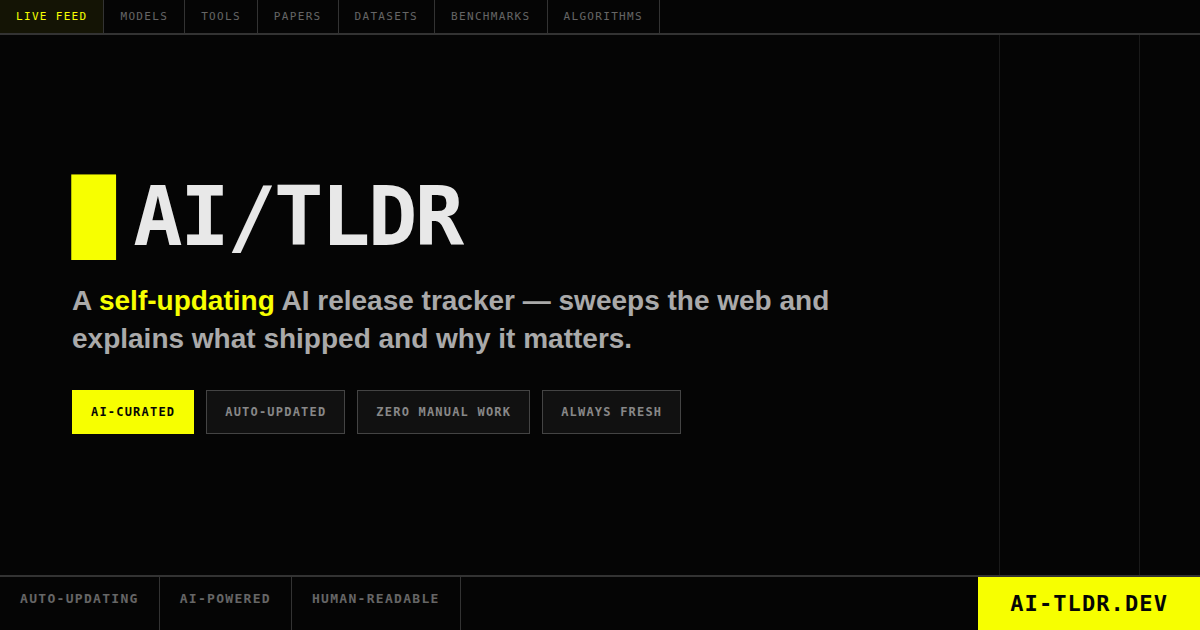
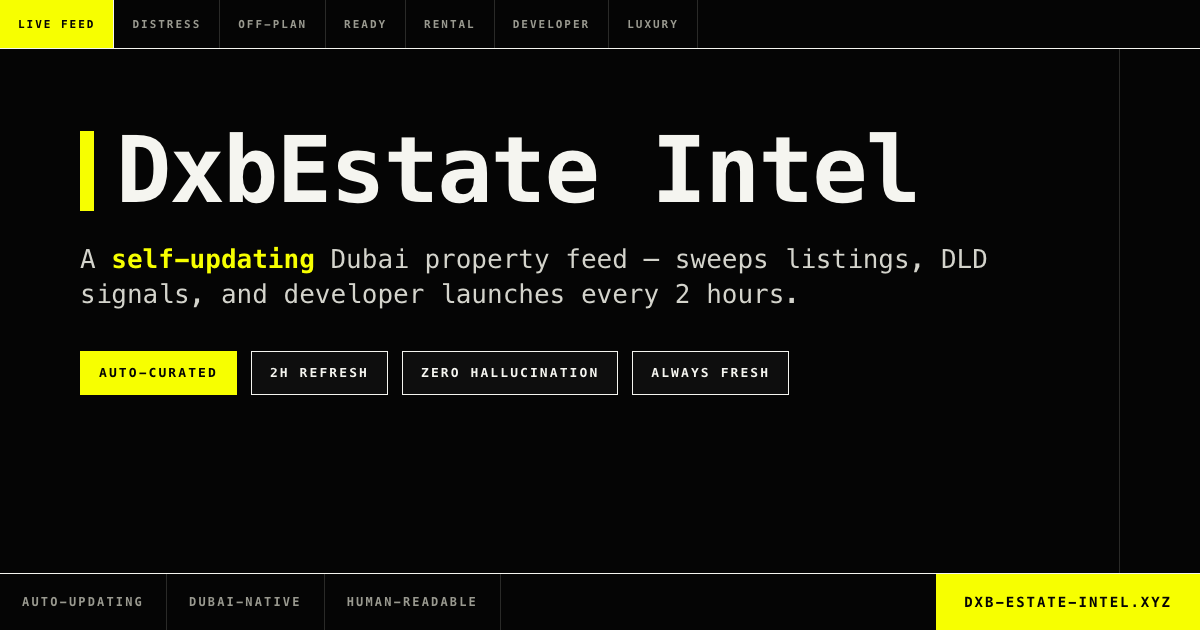
fix: rebrand og-image.png from AI/TLDR to DxbEstate Intel
The social card linked from index.html and emitted by prerender for
every opportunity was still the AI/TLDR template, so every share
preview rendered the wrong product. Regenerate it from a new HTML
template that matches the site's dark+yellow terminal aesthetic and
swap the categories/footer to Dubai property language.

The template lives at scripts/og-template.html so the asset can be
regenerated by running it through headless Chrome
(--screenshot=public/og-image.png --window-size=1200,630).

diff --git a/scripts/og-template.html b/scripts/og-template.html
@@ -1,0 +1,216 @@
+<!doctype html>
+<html lang="en">
+<head>
+<meta charset="utf-8" />
+<title>DxbEstate Intel — OG</title>
+<style>
+  @import url('https://fonts.googleapis.com/css2?family=JetBrains+Mono:wght@400;500;700;800&display=swap');
+
+  :root {
+    --bg: #050505;
+    --bg-2: #0e0e0e;
+    --fg: #f5f5f0;
+    --line: #f5f5f0;
+    --line-dim: #2a2a28;
+    --acc: #f7ff00;
+    --acc-ink: #050505;
+    --mono: "JetBrains Mono", "SF Mono", Menlo, Consolas, monospace;
+  }
+
+  html, body {
+    margin: 0;
+    padding: 0;
+    background: var(--bg);
+    color: var(--fg);
+    font-family: var(--mono);
+    -webkit-font-smoothing: antialiased;
+  }
+
+  .card {
+    width: 1200px;
+    height: 630px;
+    background: var(--bg);
+    display: flex;
+    flex-direction: column;
+    position: relative;
+    overflow: hidden;
+  }
+
+  /* Top nav strip — mirrors the site's category chips. */
+  .nav {
+    display: flex;
+    align-items: stretch;
+    border-bottom: 1px solid var(--line);
+    height: 48px;
+    flex: 0 0 auto;
+  }
+  .nav-item {
+    display: flex;
+    align-items: center;
+    padding: 0 18px;
+    font-size: 11px;
+    font-weight: 700;
+    letter-spacing: 0.18em;
+    color: #9a9a90;
+    border-right: 1px solid var(--line-dim);
+    text-transform: uppercase;
+  }
+  .nav-item.active {
+    background: var(--acc);
+    color: var(--acc-ink);
+    border-right-color: var(--line);
+  }
+
+  /* Body — left-aligned title block with accent bar. */
+  .body {
+    flex: 1 1 auto;
+    padding: 78px 80px 0;
+    display: flex;
+    flex-direction: column;
+    justify-content: flex-start;
+    position: relative;
+  }
+  /* Subtle right vertical rule, echoing the site's columnar grid. */
+  .body::after {
+    content: "";
+    position: absolute;
+    right: 80px;
+    top: 0;
+    bottom: 0;
+    width: 1px;
+    background: var(--line-dim);
+  }
+
+  .title-row {
+    display: flex;
+    align-items: center;
+    gap: 22px;
+    margin-bottom: 28px;
+  }
+  .accent-bar {
+    width: 14px;
+    height: 80px;
+    background: var(--acc);
+  }
+  .title {
+    font-size: 92px;
+    font-weight: 800;
+    letter-spacing: -0.02em;
+    line-height: 0.95;
+    margin: 0;
+    color: var(--fg);
+  }
+
+  .tagline {
+    font-size: 26px;
+    font-weight: 500;
+    line-height: 1.35;
+    color: #d4d4cc;
+    max-width: 920px;
+    margin: 0 0 38px;
+  }
+  .tagline strong {
+    color: var(--acc);
+    font-weight: 700;
+  }
+
+  .chips {
+    display: flex;
+    gap: 14px;
+    flex-wrap: wrap;
+  }
+  .chip {
+    display: inline-flex;
+    align-items: center;
+    height: 42px;
+    padding: 0 18px;
+    border: 1px solid var(--line);
+    font-size: 13px;
+    font-weight: 700;
+    letter-spacing: 0.16em;
+    text-transform: uppercase;
+    color: var(--fg);
+    background: var(--bg-2);
+  }
+  .chip.solid {
+    background: var(--acc);
+    color: var(--acc-ink);
+    border-color: var(--acc);
+  }
+
+  /* Bottom strip with the domain plate on the right. */
+  .footer {
+    flex: 0 0 auto;
+    display: flex;
+    align-items: stretch;
+    border-top: 1px solid var(--line);
+    height: 56px;
+  }
+  .footer-item {
+    display: flex;
+    align-items: center;
+    padding: 0 22px;
+    font-size: 12px;
+    font-weight: 700;
+    letter-spacing: 0.18em;
+    color: #9a9a90;
+    border-right: 1px solid var(--line-dim);
+    text-transform: uppercase;
+  }
+  .footer-spacer {
+    flex: 1 1 auto;
+  }
+  .footer-domain {
+    display: flex;
+    align-items: center;
+    padding: 0 28px;
+    background: var(--acc);
+    color: var(--acc-ink);
+    font-size: 14px;
+    font-weight: 800;
+    letter-spacing: 0.14em;
+    text-transform: uppercase;
+  }
+</style>
+</head>
+<body>
+  <div class="card">
+    <div class="nav">
+      <div class="nav-item active">Live Feed</div>
+      <div class="nav-item">Distress</div>
+      <div class="nav-item">Off-Plan</div>
+      <div class="nav-item">Ready</div>
+      <div class="nav-item">Rental</div>
+      <div class="nav-item">Developer</div>
+      <div class="nav-item">Luxury</div>
+    </div>
+
+    <div class="body">
+      <div class="title-row">
+        <div class="accent-bar"></div>
+        <h1 class="title">DxbEstate Intel</h1>
+      </div>
+
+      <p class="tagline">
+        A <strong>self-updating</strong> Dubai property feed — sweeps listings,
+        DLD signals, and developer launches every 2 hours.
+      </p>
+
+      <div class="chips">
+        <span class="chip solid">Auto-Curated</span>
+        <span class="chip">2h Refresh</span>
+        <span class="chip">Zero Hallucination</span>
+        <span class="chip">Always Fresh</span>
+      </div>
+    </div>
+
+    <div class="footer">
+      <div class="footer-item">Auto-Updating</div>
+      <div class="footer-item">Dubai-Native</div>
+      <div class="footer-item">Human-Readable</div>
+      <div class="footer-spacer"></div>
+      <div class="footer-domain">DXB-ESTATE-INTEL.XYZ</div>
+    </div>
+  </div>
+</body>
+</html>